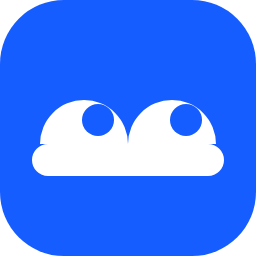
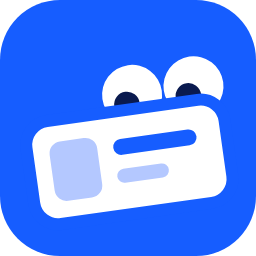
feat(brand): redraw the mark as eyes peeking over a link card
The first mark (eyes over a bar) read as a cloud and said little about
the product. The new mark is a tilted link preview card, with thumbnail
and text lines, and two eyes peeking over its top edge, looking down at
it. It is asymmetric on purpose, so it reads as peeking rather than as a
face, and a simplified cut keeps it legible at 16 px.

The logo, hero eyes, 404, social images, icons and brand files use it.

diff --git a/website/components/self-preview.tsx b/website/components/self-preview.tsx
@@ -96,6 +96,7 @@ export function UnfurlDemo() {
 	const { fields, ms } = useLivePreview();
 	const [remote, setRemote] = useState<Remote>({ state: "idle" });
 	const [input, setInput] = useState("");
+	const [typing, setTyping] = useState(false);
 
 	const own: CardData = {
 		url: fields.canonicalUrl,
@@ -186,6 +187,8 @@ export function UnfurlDemo() {
 					placeholder="Try any URL, like github.com"
 					value={input}
 					onChange={(event) => setInput(event.target.value)}
+					onFocus={() => setTyping(true)}
+					onBlur={() => setTyping(false)}
 					className="min-h-11 min-w-0 flex-1 rounded-xl border bg-fd-background px-4 text-sm outline-none transition-colors placeholder:text-fd-muted-foreground focus-visible:border-signal focus-visible:ring-2 focus-visible:ring-signal-wash"
 				/>
 				<button
@@ -200,7 +203,7 @@ export function UnfurlDemo() {
 				className="relative rounded-2xl border bg-fd-card p-4 shadow-[0_1px_0_rgb(0_0_0/0.02),0_24px_48px_-24px_rgb(18_20_26/0.18)] sm:p-5"
 				aria-busy={remote.state === "loading"}
 			>
-				<Peekers looking={remote.state !== "idle"} />
+				<Peekers looking={typing ? "input" : "card"} />
 				<p className="mb-3 w-fit max-w-full truncate rounded-2xl rounded-bl-md bg-fd-secondary px-3.5 py-2 text-sm">
 					Have you seen{" "}
 					<span className="text-signal">
@@ -256,25 +259,29 @@ export function UnfurlDemo() {
 	);
 }
 
-// The brand's eyes, peeking over the top edge of the chat card. They look up
-// and right at rest and down at the card once a visitor previews a URL.
-function Peekers({ looking }: { looking: boolean }) {
+// The brand's eyes, peeking over the top edge of the chat card like the
+// mark's eyes over its card. They look down at the card and up at the URL
+// field while a visitor types.
+function Peekers({ looking }: { looking: "card" | "input" }) {
 	return (
 		<svg
 			viewBox="0 0 48 24"
 			aria-hidden="true"
-			className="absolute -top-[23px] right-8 w-12 text-signal"
+			className="absolute -top-[22px] right-10 w-12"
 		>
 			<path
-				fill="currentColor"
-				d="M0 24a12 12 0 0 1 24 0zM24 24a12 12 0 0 1 24 0z"
+				d="M1.5 24a10.5 10.5 0 0 1 21 0zM25.5 24a10.5 10.5 0 0 1 21 0z"
+				className="fill-fd-background stroke-signal"
+				strokeWidth="2.5"
 			/>
 			<g
 				className="transition-transform duration-300 ease-out motion-reduce:transition-none"
-				style={{ transform: looking ? "translate(-3px, 3px)" : "none" }}
+				style={{
+					transform: looking === "input" ? "translate(1px, -6px)" : "none",
+				}}
 			>
-				<circle cx="15.5" cy="17" r="3.6" className="fill-fd-background" />
-				<circle cx="39.5" cy="17" r="3.6" className="fill-fd-background" />
+				<circle cx="10" cy="20" r="3.8" className="fill-fd-foreground" />
+				<circle cx="34" cy="20" r="3.8" className="fill-fd-foreground" />
 			</g>
 		</svg>
 	);

diff --git a/website/components/logo.tsx b/website/components/logo.tsx
@@ -1,36 +1,33 @@
-// The linkpeek mark: two eyes peeking over an edge. The edge is </head>,
-// where linkpeek stops reading; the pupils look up and right, toward the link.
+// The linkpeek mark: a link preview card, tilted as if just pasted, with two
+// eyes peeking over its top edge and looking down at it.
+const BLUE = "#165dff";
+const NAVY = "#0a1a4f";
+const SOFT = "#b4c8ff";
+
 export function Mark({ className = "size-6" }: { className?: string }) {
 	return (
-		<svg viewBox="0 0 64 64" aria-hidden="true" className={`peek ${className}`}>
-			<rect width="64" height="64" rx="16" fill="#165dff" />
-			<path
-				fill="#fff"
-				d="M12 36h40a4 4 0 0 1 0 8H12a4 4 0 0 1 0-8zM10 36a11 11 0 0 1 22 0zM32 36a11 11 0 0 1 22 0z"
-			/>
-			<g className="peek-pupils">
-				<circle cx="24.5" cy="30" r="4" fill="#165dff" />
-				<circle cx="46.5" cy="30" r="4" fill="#165dff" />
-			</g>
-		</svg>
-	);
-}
-
-/** The same eyes without the tile, in the current text color. */
-export function Glyph({ className }: { className?: string }) {
-	return (
-		<svg
-			viewBox="0 0 64 64"
-			aria-hidden="true"
-			className={`peek ${className ?? ""}`}
-		>
-			<path
-				fill="currentColor"
-				d="M12 36h40a4 4 0 0 1 0 8H12a4 4 0 0 1 0-8zM10 36a11 11 0 0 1 22 0zM32 36a11 11 0 0 1 22 0z"
-			/>
-			<g className="peek-pupils">
-				<circle cx="24.5" cy="30" r="4" className="fill-fd-background" />
-				<circle cx="46.5" cy="30" r="4" className="fill-fd-background" />
+		<svg viewBox="0 0 64 64" aria-hidden="true" className={className}>
+			<rect width="64" height="64" rx="15" fill={BLUE} />
+			<g transform="translate(0 -2) rotate(-8 32 40)">
+				<circle cx="35" cy="26" r="7.5" fill="#fff" />
+				<circle cx="50.5" cy="26" r="7.5" fill="#fff" />
+				<g className="peek-pupils">
+					<circle cx="33.4" cy="28.2" r="3.2" fill={NAVY} />
+					<circle cx="48.9" cy="28.2" r="3.2" fill={NAVY} />
+				</g>
+				<rect
+					x="7"
+					y="29.5"
+					width="50"
+					height="26"
+					rx="6"
+					fill="#fff"
+					stroke={BLUE}
+					strokeWidth="3"
+				/>
+				<rect x="12.5" y="35" width="12" height="15" rx="3" fill={SOFT} />
+				<rect x="28.5" y="36.5" width="21" height="4" rx="2" fill={BLUE} />
+				<rect x="28.5" y="44" width="13" height="3.5" rx="1.75" fill={SOFT} />
 			</g>
 		</svg>
 	);
@@ -38,7 +35,7 @@ export function Glyph({ className }: { className?: string }) {
 
 export function Logo() {
 	return (
-		<span className="group/logo inline-flex items-center gap-2 font-semibold text-[1.05rem] tracking-[-0.035em]">
+		<span className="group/logo inline-flex items-center gap-2 font-semibold text-[1.05rem] tracking-[-0.04em]">
 			<Mark />
 			linkpeek
 		</span>

diff --git a/website/app/og/[...slug]/route.tsx b/website/app/og/[...slug]/route.tsx
@@ -48,11 +48,48 @@ export async function GET(
 			}}
 		>
 			<div style={{ display: "flex", alignItems: "center", gap: 18 }}>
-				<svg width="52" height="52" viewBox="0 0 64 64" aria-hidden="true">
-					<rect width="64" height="64" rx="16" fill="#165dff" />
-					<path fill="#fff" d={EYES} />
-					<circle cx="24.5" cy="30" r="4" fill="#165dff" />
-					<circle cx="46.5" cy="30" r="4" fill="#165dff" />
+				<svg width="56" height="56" viewBox="0 0 64 64" aria-hidden="true">
+					<rect width="64" height="64" rx="15" fill="#165dff" />
+					<g transform="translate(0 -2) rotate(-8 32 40)">
+						<circle cx="35" cy="26" r="7.5" fill="#fff" />
+						<circle cx="50.5" cy="26" r="7.5" fill="#fff" />
+						<circle cx="33.4" cy="28.2" r="3.2" fill="#0a1a4f" />
+						<circle cx="48.9" cy="28.2" r="3.2" fill="#0a1a4f" />
+						<rect
+							x="7"
+							y="29.5"
+							width="50"
+							height="26"
+							rx="6"
+							fill="#fff"
+							stroke="#165dff"
+							strokeWidth="3"
+						/>
+						<rect
+							x="12.5"
+							y="35"
+							width="12"
+							height="15"
+							rx="3"
+							fill="#b4c8ff"
+						/>
+						<rect
+							x="28.5"
+							y="36.5"
+							width="21"
+							height="4"
+							rx="2"
+							fill="#165dff"
+						/>
+						<rect
+							x="28.5"
+							y="44"
+							width="13"
+							height="3.5"
+							rx="1.75"
+							fill="#b4c8ff"
+						/>
+					</g>
 				</svg>
 				<span
 					style={{ fontSize: 34, fontWeight: 600, letterSpacing: "-0.035em" }}
@@ -102,11 +139,13 @@ export async function GET(
 				style={{ position: "absolute", right: 96, bottom: 102 }}
 			>
 				<path
-					fill="#165dff"
-					d="M0 24a12 12 0 0 1 24 0zM24 24a12 12 0 0 1 24 0z"
+					fill="#fff"
+					stroke="#165dff"
+					strokeWidth="2.5"
+					d="M1.5 24a10.5 10.5 0 0 1 21 0zM25.5 24a10.5 10.5 0 0 1 21 0z"
 				/>
-				<circle cx="15.5" cy="17" r="3.6" fill="#0d0f14" />
-				<circle cx="39.5" cy="17" r="3.6" fill="#0d0f14" />
+				<circle cx="10" cy="20" r="3.8" fill="#0a1a4f" />
+				<circle cx="34" cy="20" r="3.8" fill="#0a1a4f" />
 			</svg>
 			<div
 				style={{
@@ -137,9 +176,6 @@ export async function GET(
 		{ width: 1200, height: 630, fonts },
 	);
 }
-
-const EYES =
-	"M12 36h40a4 4 0 0 1 0 8H12a4 4 0 0 1 0-8zM10 36a11 11 0 0 1 22 0zM32 36a11 11 0 0 1 22 0z";
 
 export function generateStaticParams() {
 	return [

diff --git a/website/app/not-found.tsx b/website/app/not-found.tsx
@@ -1,13 +1,13 @@
 import { HomeLayout } from "fumadocs-ui/layouts/home";
 import Link from "next/link";
-import { Glyph } from "@/components/logo";
+import { Mark } from "@/components/logo";
 import { baseOptions } from "@/lib/layout.shared";
 
 export default function NotFound() {
 	return (
 		<HomeLayout {...baseOptions()}>
 			<main className="mx-auto grid max-w-xl flex-1 content-center justify-items-start gap-4 px-6 py-24">
-				<Glyph className="peek-look w-28 text-signal" />
+				<Mark className="size-24" />
 				<p className="text-fd-muted-foreground text-sm">HTTP 404</p>
 				<h1 className="font-semibold text-3xl tracking-tight">
 					Nothing to peek at here

diff --git a/website/app/global.css b/website/app/global.css
@@ -81,15 +81,14 @@ body {
 	background: var(--color-signal-wash);
 }
 
-/* The mark's pupils glance back toward the reader when the logo is hovered. */
+/* The mark's eyes look up from the card at the reader when the logo is hovered. */
 @media (prefers-reduced-motion: no-preference) {
 	.peek-pupils {
 		transition: transform 260ms cubic-bezier(0.2, 0.8, 0.2, 1);
 	}
 }
-.peek-look .peek-pupils,
 .group\/logo:hover .peek-pupils {
-	transform: translate(-5px, 1.5px);
+	transform: translate(2px, -3px);
 }
 
 /* The one orchestrated moment: the hero URL unfurls into its card. */

diff --git a/AGENTS.md b/AGENTS.md
@@ -29,7 +29,7 @@
 - `npm run build --prefix website` also runs `scripts/check-site.mjs` (one H1, canonical, social tags, JSON-LD, Markdown twins, links, sitemap). Keep it passing.
 
 ## Brand
-- The mark is two eyes peeking over an edge: the edge is `</head>`, where linkpeek stops reading; the pupils look up and right, toward the link. Sources live in `assets/brand/` (`mark.svg`, `glyph.svg`, outlined `lockup-*.svg`, a bolder `favicon.svg` for 16–32 px, `mark-256.png`, `social-preview.png`).
+- The mark is a link preview card, tilted as if just pasted, with two eyes peeking over its top edge and looking down at it. Sources live in `assets/brand/` (`mark.svg`, one-color `glyph.svg`, outlined `lockup-*.svg`, a simplified `favicon.svg` for 16–24 px, `mark-256.png`, `social-preview.png`).
 - Signal blue `#165dff` marks the one thing that matters on a surface; everything else stays neutral. Type is Schibsted Grotesk (UI, headings) and JetBrains Mono (code only).
 
 ## Demo preview endpoint
